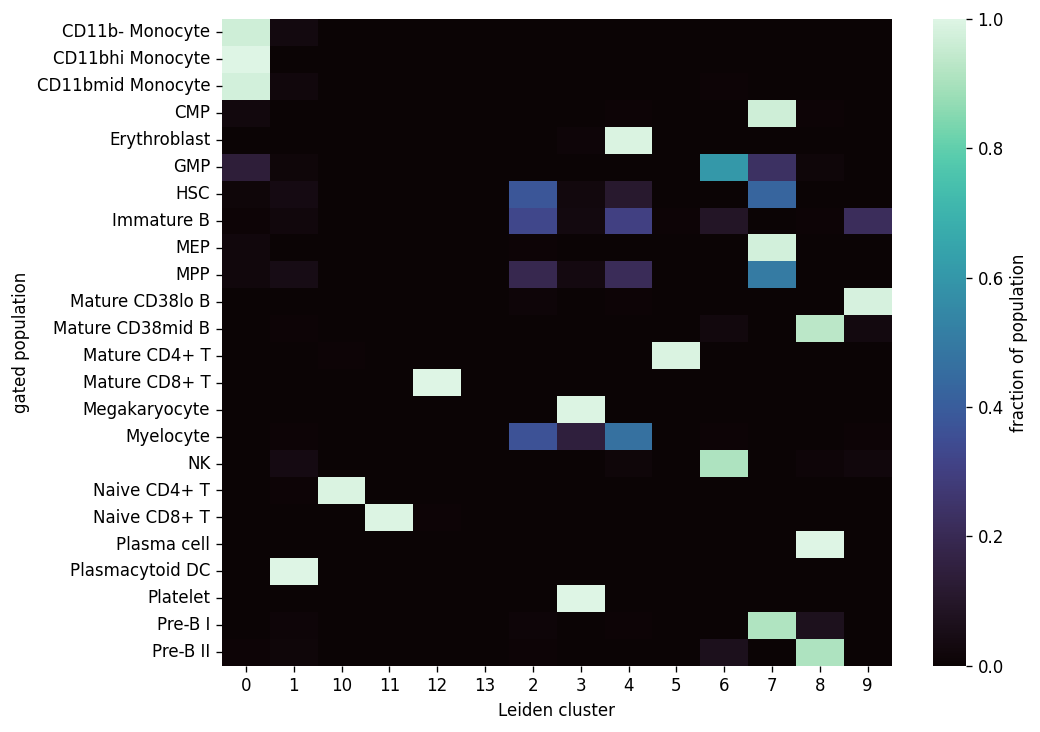
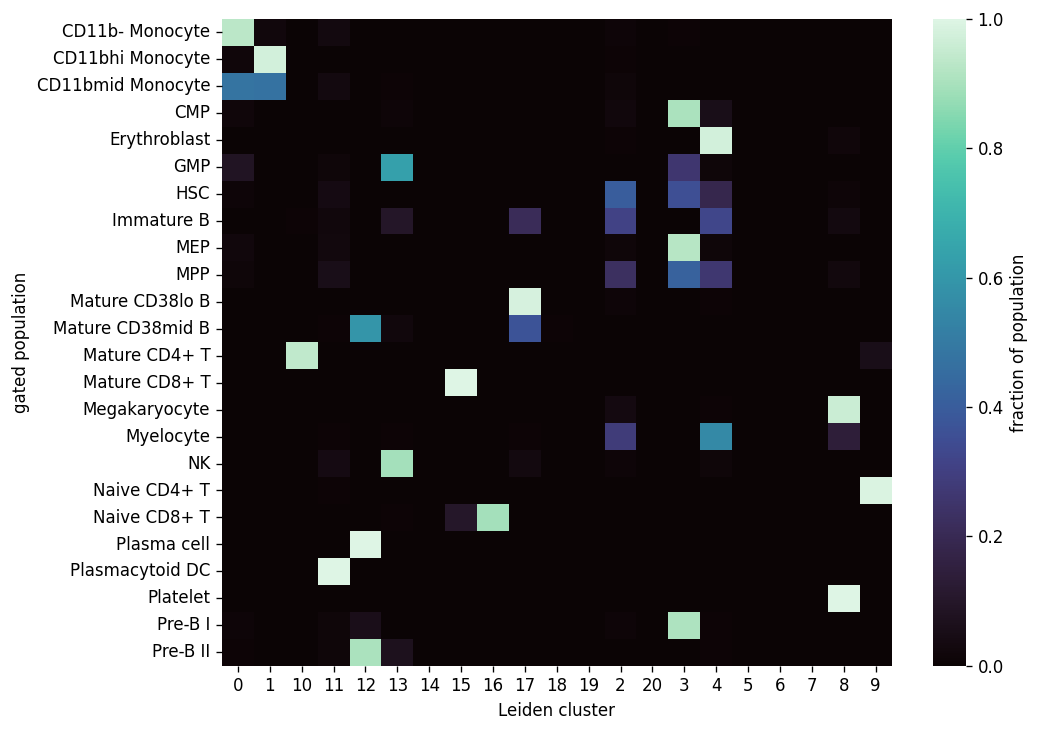
Cluster all events, score gated subset; add cluster smoke test
Benchmark protocol runs clustering on the full file and evaluates on
the labeled subset; clustering gated cells only inflated agreement
(ARI 0.914 -> 0.867). Synthetic two-blob test asserts cluster purity
rather than count, since resolution=1.0 legitimately overfragments
homogeneous blobs.

diff --git a/cytof_qc/pipeline.py b/cytof_qc/pipeline.py
@@ -33,17 +33,19 @@ RESULTS = HERE / "results"
 
 def main(data_dir: Path = DATA) -> dict:
     events = io.load_population_dir(data_dir)
-    gated = events[events["population"] != "NotGated"].copy()
-    channels = [c for c in gated.columns if c not in {"population", "source_file"}]
+    channels = [c for c in events.columns if c not in {"population", "source_file"}]
 
-    channel_report = qc.channel_qc(gated, channels)
-    population_report = qc.population_qc(gated)
+    channel_report = qc.channel_qc(events, channels)
+    population_report = qc.population_qc(events)
 
-    transformed = transform.arcsinh(gated[channels])
+    # cluster every event, gated or not: the benchmark protocol runs the
+    # clustering on the full file and scores only the labeled subset
+    transformed = transform.arcsinh(events[channels])
     adata = cluster.cluster_events(
         transformed, channels, n_neighbors=15, resolution=1.0
     )
-    gated["cluster"] = adata.obs["cluster"].to_numpy()
+    events["cluster"] = adata.obs["cluster"].to_numpy()
+    gated = events[events["population"] != "NotGated"].copy()
 
     agree = mapping.agreement(
         gated["population"].to_numpy(), gated["cluster"].to_numpy()
@@ -55,10 +57,11 @@ def main(data_dir: Path = DATA) -> dict:
     metrics = {
         "dataset": "Levine_13dim (Levine et al. 2015, human bone marrow, "
         "manually gated populations)",
-        "n_events": int(len(gated)),
+        "n_events_clustered": int(len(events)),
+        "n_events_scored": int(len(gated)),
         "n_channels": len(channels),
         "n_gated_populations": int(gated["population"].nunique()),
-        "n_clusters_found": int(gated["cluster"].nunique()),
+        "n_clusters_found": int(events["cluster"].nunique()),
         "agreement": agree,
         "channels": channel_report,
         "populations": population_report,
@@ -69,19 +72,21 @@ def main(data_dir: Path = DATA) -> dict:
     RESULTS.mkdir(exist_ok=True)
     (RESULTS / "metrics.json").write_text(json.dumps(metrics, indent=2))
 
-    _figures(adata, gated, table)
+    _figures(adata, events, table)
 
     summary = (
-        f"{metrics['n_events']} events, {metrics['n_gated_populations']} gated "
-        f"populations, {metrics['n_clusters_found']} Leiden clusters; "
+        f"{metrics['n_events_clustered']} events clustered, "
+        f"{metrics['n_events_scored']} scored, "
+        f"{metrics['n_gated_populations']} gated populations, "
+        f"{metrics['n_clusters_found']} Leiden clusters; "
         f"ARI={agree['adjusted_rand_index']}, NMI={agree['normalized_mutual_info']}"
     )
     print(summary)
     return metrics
 
 
-def _figures(adata, gated: pd.DataFrame, table: pd.DataFrame) -> None:
-    adata.obs["population"] = gated["population"].to_numpy()
+def _figures(adata, events: pd.DataFrame, table: pd.DataFrame) -> None:
+    adata.obs["population"] = events["population"].to_numpy()
 
     fig, axes = plt.subplots(1, 2, figsize=(13, 5.5))
     sc.pl.umap(adata, color="population", ax=axes[0], show=False, legend_loc=None,

diff --git a/tests/test_cluster.py b/tests/test_cluster.py
@@ -1,0 +1,26 @@
+import numpy as np
+import pandas as pd
+import pytest
+
+from cytof_qc import cluster
+
+
+def test_cluster_events_recovers_two_blobs():
+    rng = np.random.default_rng(0)
+    a = rng.normal(2.0, 0.3, (300, 4))
+    b = rng.normal(5.0, 0.3, (300, 4))
+    events = pd.DataFrame(np.vstack([a, b]), columns=list("wxyz"))
+    try:
+        adata = cluster.cluster_events(
+            events, list("wxyz"), n_neighbors=15, resolution=0.2
+        )
+    except ImportError:
+        pytest.skip("igraph/leidenalg not installed")
+    # clusters may overfragment at higher resolution, but every cluster
+    # must be dominated by one blob
+    obs = adata.obs["cluster"].to_numpy()
+    assert len(np.unique(obs)) >= 2
+    for cl in np.unique(obs):
+        idx = np.where(obs == cl)[0]
+        frac_first_blob = np.mean(idx < 300)
+        assert frac_first_blob < 0.1 or frac_first_blob > 0.9

diff --git a/README.md b/README.md
@@ -11,8 +11,12 @@ the published manual gates.
 
 ## Results
 
-- 81,747 gated events, 24 gated populations, 14 Leiden clusters
-- Agreement with manual gates: **ARI 0.914, NMI 0.907**
+- 167,044 events clustered (the full file, gated and ungated), 81,747 of
+  them carrying manual-gate labels; scoring runs only on the labeled
+  subset. This matches the usual benchmark protocol — clustering gated
+  cells only would inflate the agreement numbers.
+- 24 gated populations, 21 Leiden clusters
+- Agreement with manual gates: **ARI 0.867, NMI 0.867**
 - Mature lineages (T cells, monocytes, NK, B cells, plasma cells) map
   roughly one-to-one onto clusters. The gated progenitor populations
   (HSC, MPP, GMP, MEP, immature B, myelocyte) partially merge. That merge is the
